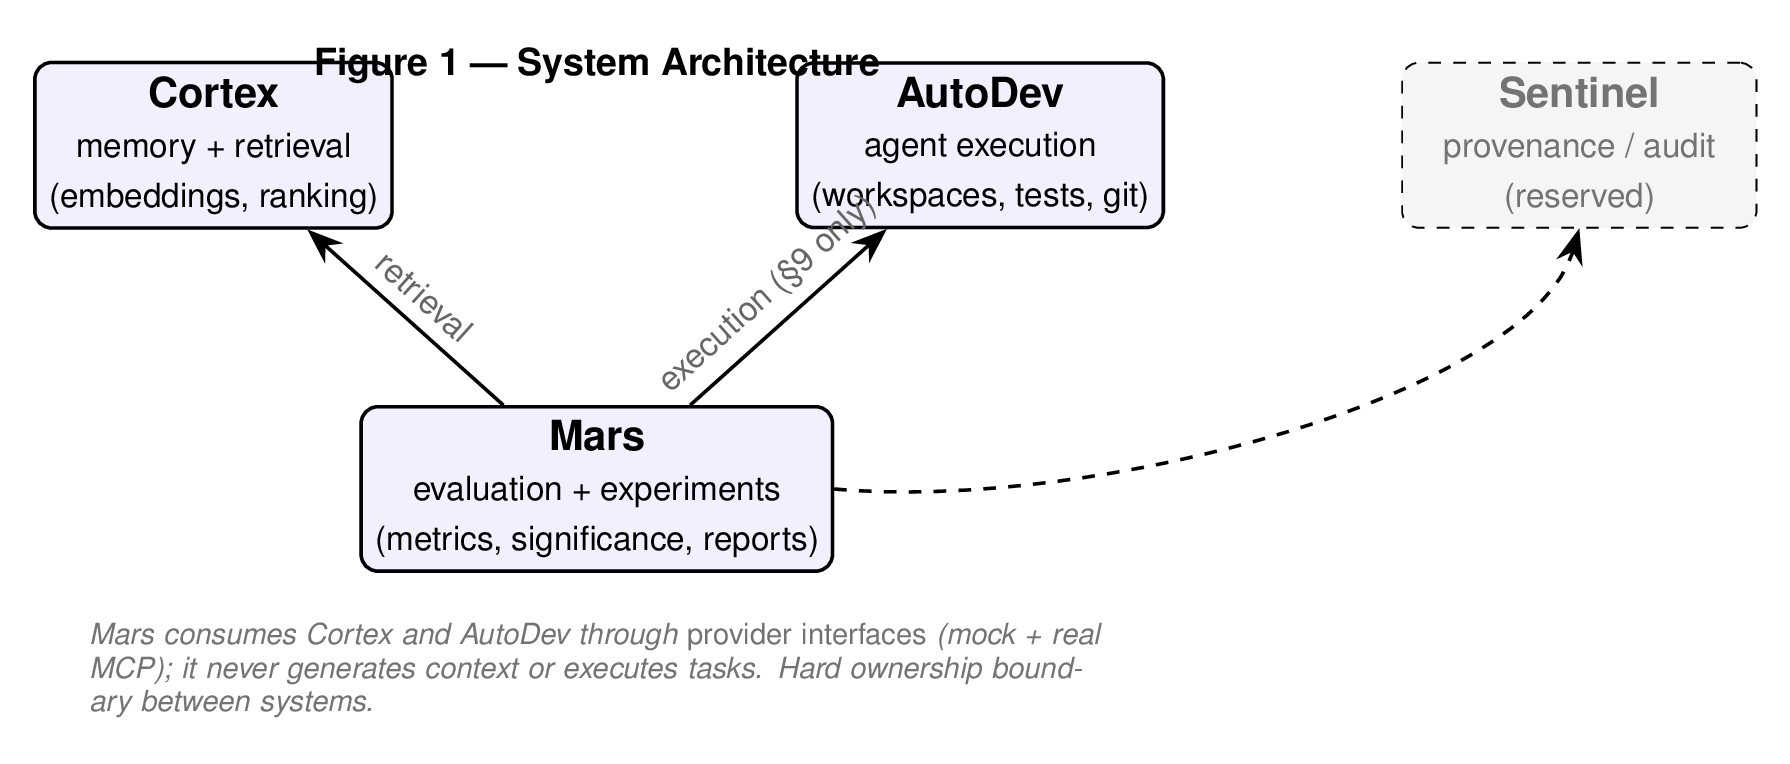
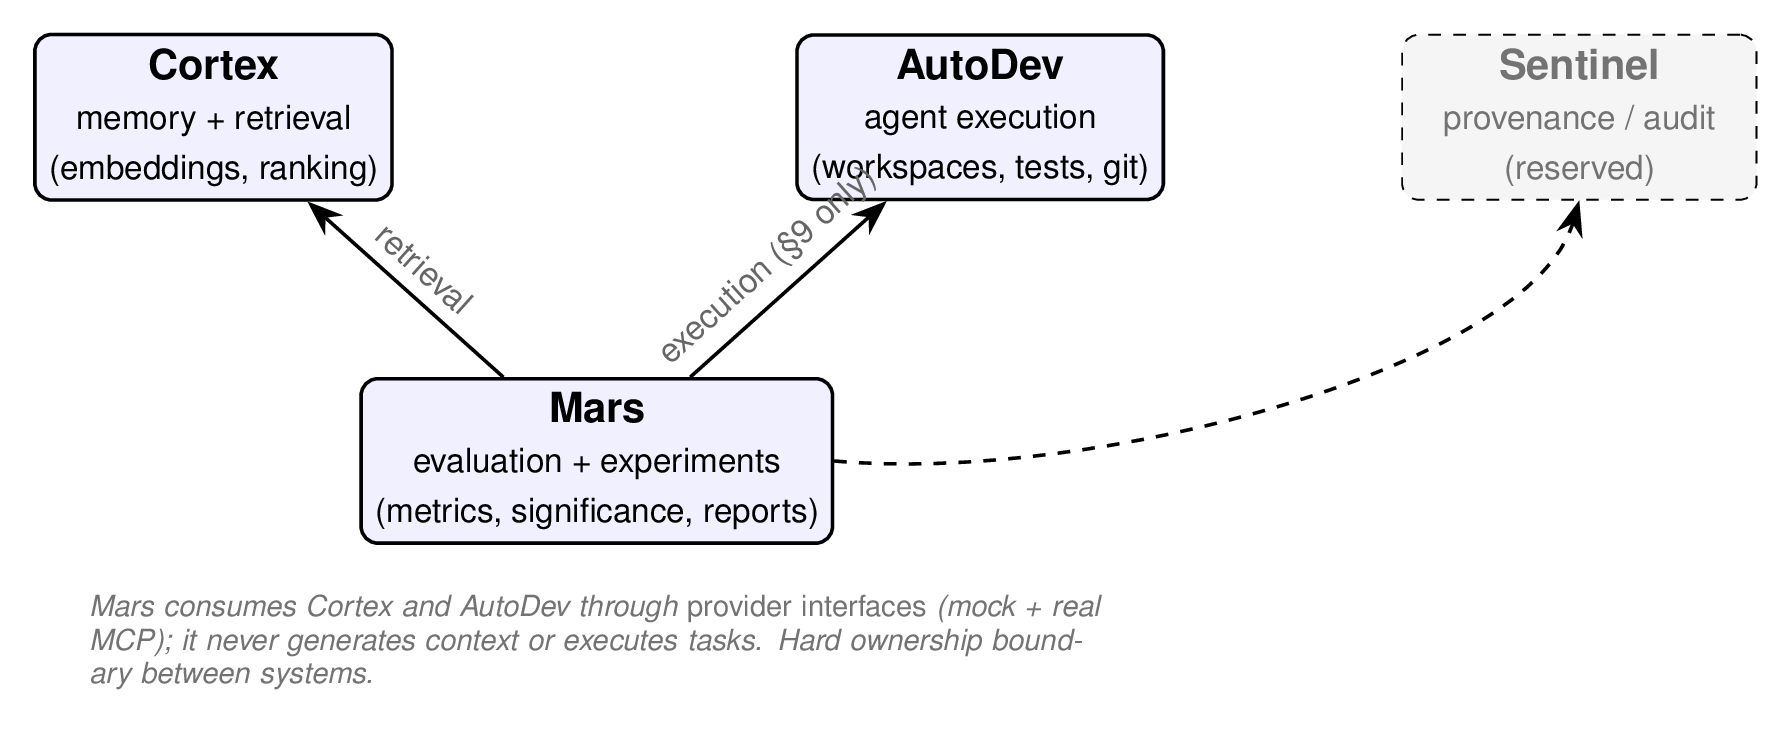
Remove overlapping baked-in titles from diagram figures
The "Figure N — Title" text inside diagrams 1/2/10 overlapped the Cortex and
AutoDev boxes in Figure 1 and is redundant with the figure caption used when the
images are embedded. Drop the title nodes from the three TikZ diagrams; the
caption now carries the label. Recompiled diagrams.pdf and re-exported the PNGs.

diff --git a/docs/papers/figures/diagrams.tex b/docs/papers/figures/diagrams.tex
@@ -48,7 +48,6 @@
     {Mars consumes Cortex and AutoDev through \emph{provider interfaces}
      (mock + real MCP); it never generates context or executes tasks.
      Hard ownership boundary between systems.};
-  \node[font=\small\bfseries, above=4mm of $(cortex)!0.5!(autodev)$] {Figure 1 — System Architecture};
 \end{tikzpicture}
 
 % =====================================================================
@@ -74,7 +73,6 @@
   \node[note, below=8mm of pool, text width=104mm]
     {Both ranking strategies re-rank the \textbf{same} per-query pool, isolating the
      ranking function from first-stage embedding recall.};
-  \node[font=\small\bfseries, above=9mm of pool] {Figure 2 — Retrieval Pipeline};
 \end{tikzpicture}
 
 % =====================================================================
@@ -97,8 +95,6 @@
     {\textbf{Salience v2 core signals:} semantic similarity $+$ importance $+$ gated
      confidence (\,$\text{effective\_importance}=\text{importance}\times\text{confidence}$\,).
      \quad \textbf{Not promoted:} raw recency.};
-
-  \node[font=\small\bfseries, above=4mm of $(e1)!0.5!(e5)$] {Figure 10 — Research Program Overview};
 \end{tikzpicture}
 
 \end{document}